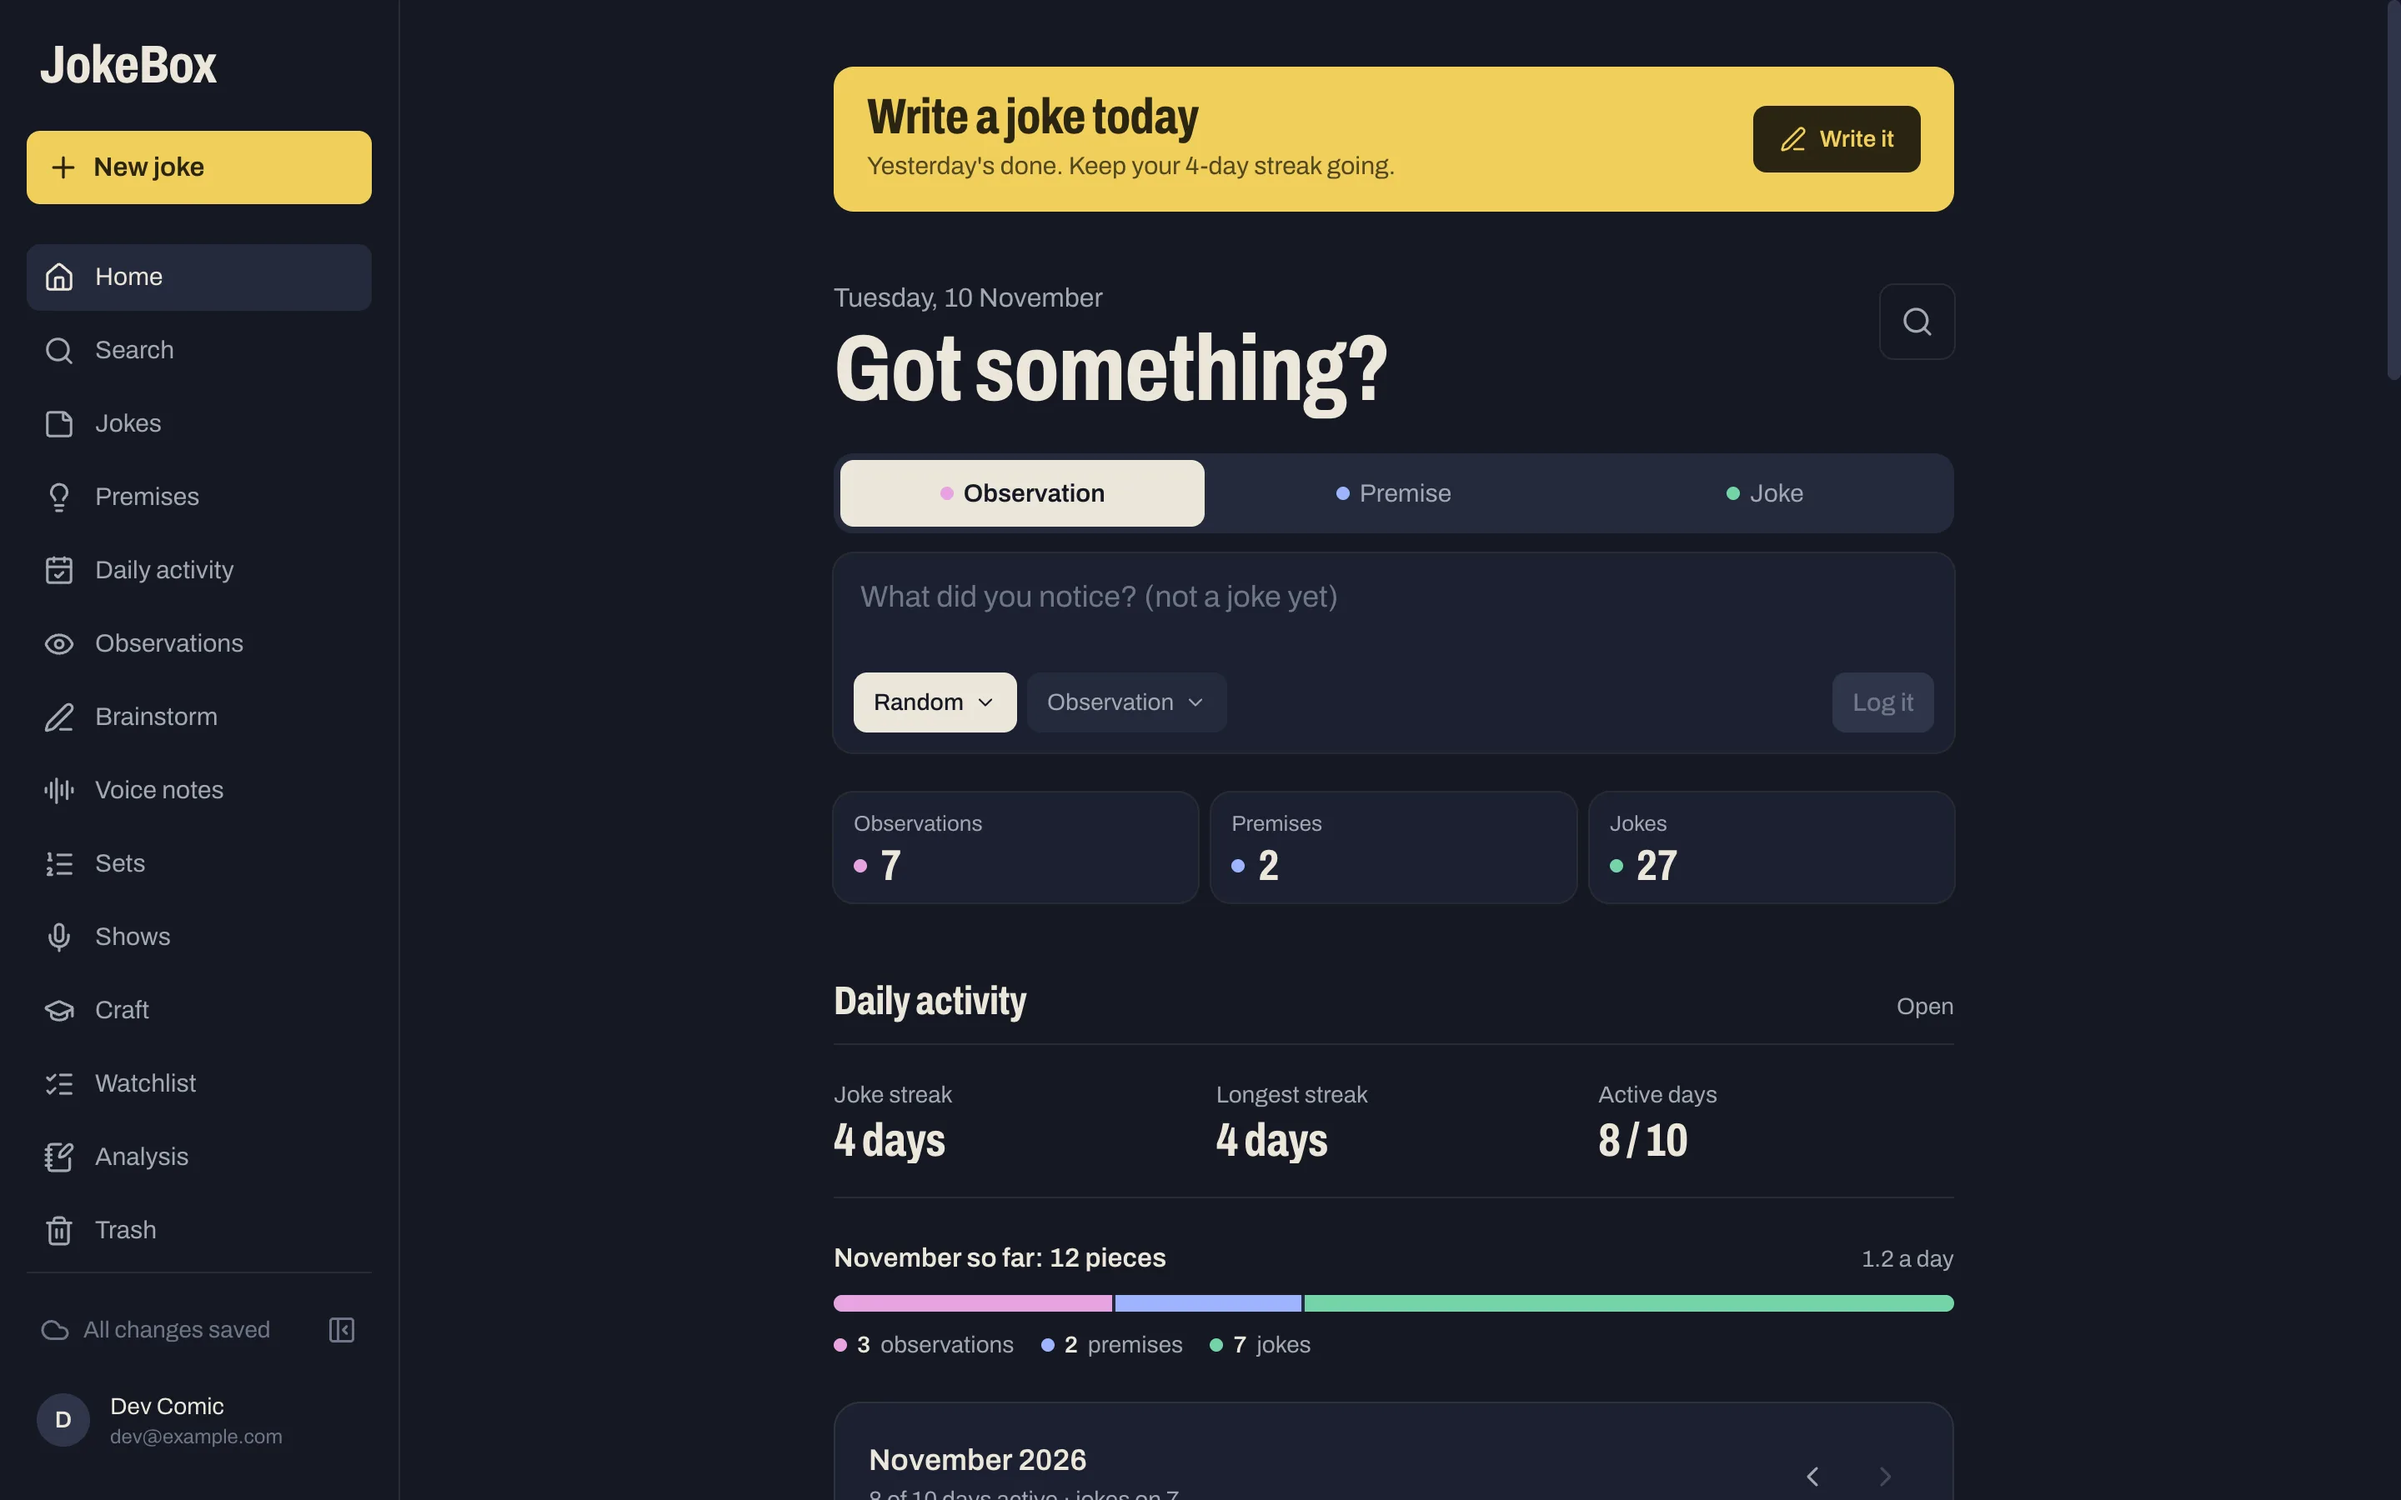
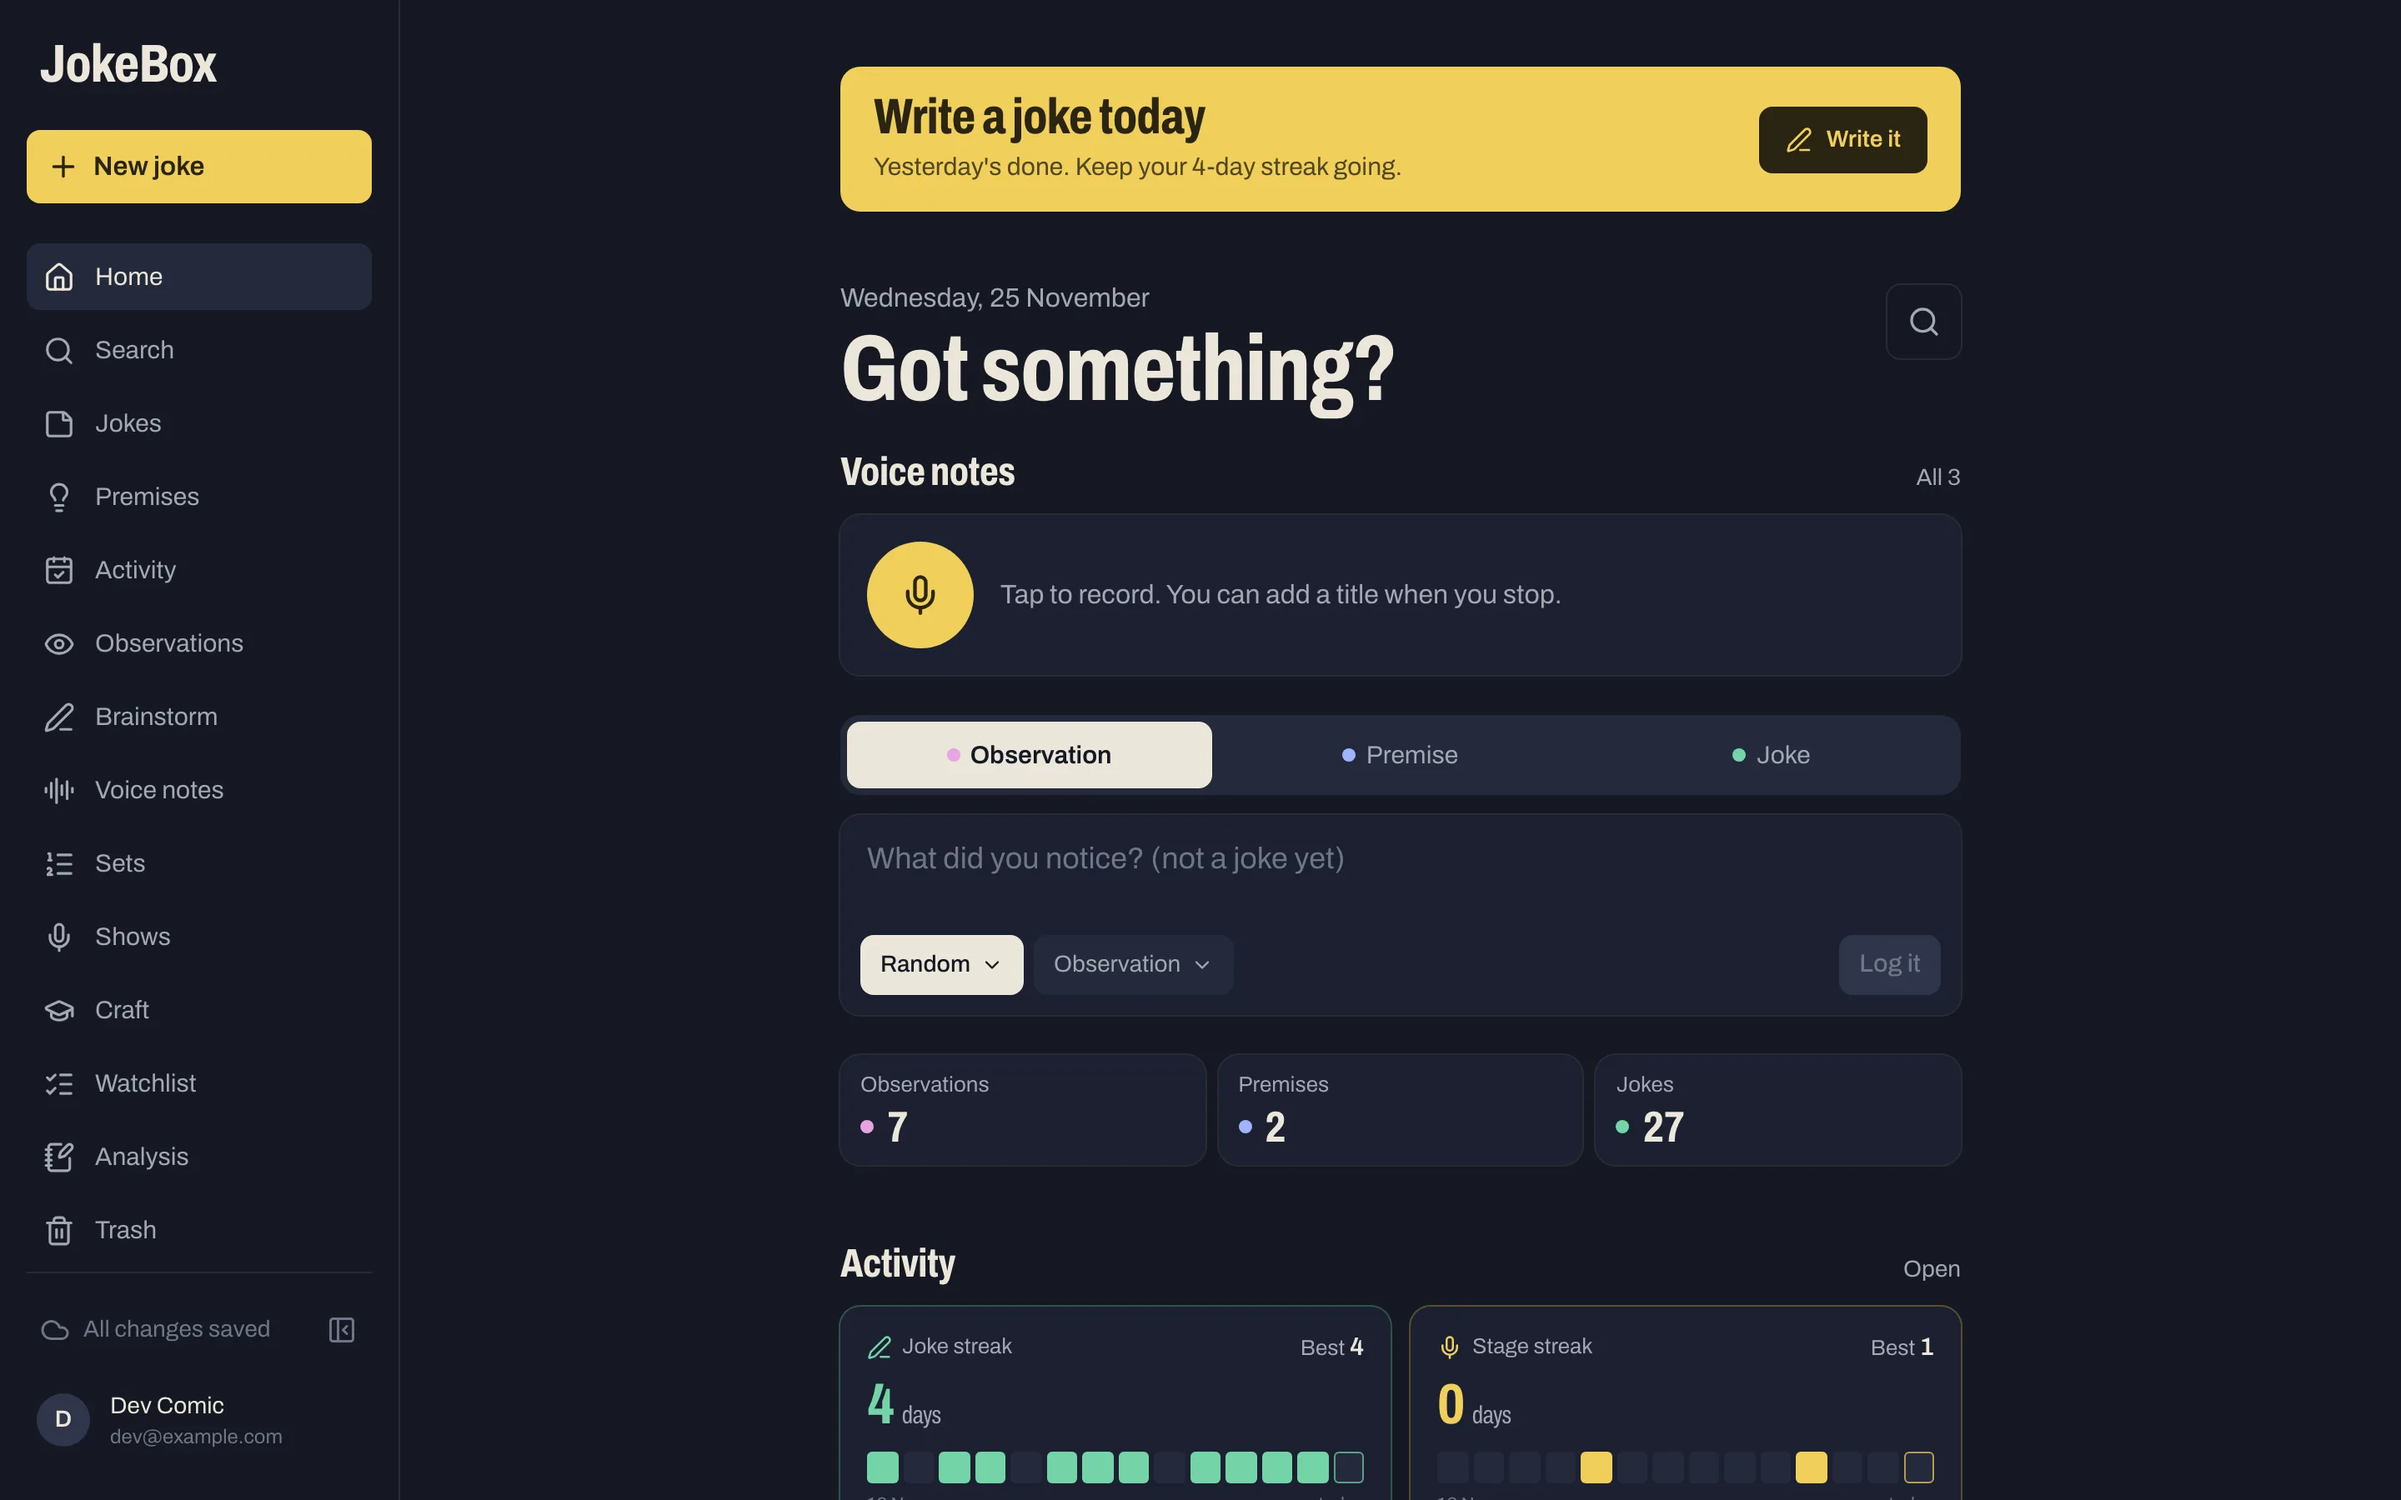
fix(web): move the Home recorder above the writing tabs (#183)

diff --git a/web/src/features/today/TodayPage.tsx b/web/src/features/today/TodayPage.tsx
@@ -1,4 +1,4 @@
-/** Today: the daily joke nudge, then a box to write an observation, premise or joke (three tabs), shortcuts to jokes, premises and observations, daily activity (streaks, the month and its calendar), voice notes, brainstorming, craft (your path and a lesson box), study (watchlist, analysis, links), your topic folders, what's coming up, and how the last show went. */
+/** Home brings voice and written capture together above the library and activity. */
 import { Play, Search } from 'lucide-react'
 import { useState } from 'react'
 import { Link } from 'react-router'
@@ -54,10 +54,10 @@ export function TodayPage() {
           <Search size={20} />
         </Link>
       </div>
+      <TodayVoice />
       <CaptureTabs tab={tab} onTab={setTab} />
       <LibraryTiles />
       <TodayActivity />
-      <TodayVoice />
       <TodayBrainstorm />
       <TodayCraft />
       <TodayStudy />

diff --git a/web/src/features/today/TodayVoice.tsx b/web/src/features/today/TodayVoice.tsx
@@ -7,7 +7,7 @@ import { useVoiceLibrary } from '../voice/useVoiceLibrary'
 export function TodayVoice() {
   const { notes } = useVoiceLibrary()
   return (
-    <section className="mt-12">
+    <section className="mb-6">
       <SectionHead title="Voice notes">
         <Link to="/voice" className="text-sm text-dim hover:text-paper">{notes.length ? `All ${notes.length}` : 'Open'}</Link>
       </SectionHead>

diff --git a/docs/screens.md b/docs/screens.md
@@ -89,10 +89,10 @@ in IST and the headline **"Got something?"** with a search button beside it (it 
 | Section | File | Notes |
 |---|---|---|
 | Daily joke nudge | `daily/DailyBanner.tsx` | Days since your last new joke: today written, a small green line with your streak; 1 or 2 days, yellow **Write a joke today**; 3 to 7, red **N days without a joke**; over a week, a dark, spooky card (a drifting ghost, a cobweb, a flickering line; still under reduced motion). Waits for the jokes to load so it never flashes the wrong state. On Home its button opens the Joke tab |
+| Voice notes | `TodayVoice.tsx` | The same recorder as the Voice screen, plus "All N" |
 | Write | `CaptureTabs.tsx` | Three tabs, **Observation** (picked when Home opens), **Premise** and **Joke**, each with its own box; drafts survive switching. Observation: `ObservationBox` (text, Topic, Kind, **Log it**). Premise: `premises/PremiseBox.tsx` (the take, "Because…", Topic, **Add premise**; the toast's **Open** goes to it). Joke: `QuickCapture.tsx` (setup and punchline; Enter saves to Random). The nudge's **Write it** switches to Joke and puts the cursor in the setup |
 | Your material | `LibraryTiles.tsx` | Three tiles, **Observations**, **Premises** and **Jokes** (the tabs' order), each with its count and its Activity colour; a tap opens that list |
 | Activity | `TodayActivity.tsx`, `daily/ActivityPanel.tsx` | The same streak cards, calendar card and Today box as [Activity](#activity-activity), plus **Open**. The pulse, highlights and year review are on Activity only |
-| Voice notes | `TodayVoice.tsx` | The same recorder as the Voice screen, plus "All N" |
 | Brainstorm | `TodayBrainstorm.tsx` | Start a session, or pick up the last one |
 | Craft | `TodayCraft.tsx`, `craft/PathLadder.tsx` | **Path:** a small copy of the Craft staircase: the first Path note with tick boxes still open, how many are done, and the next step (one small staircase per heading when the note has tracks). When the step names minutes, it shows your most solid material on one topic (Strong and Killer jokes, by runtime) against that target. Below it, a box to save a lesson to one of your areas (chips in their colours) |
 | Study | `TodayStudy.tsx` | Craft notes, watchlist progress, analyses |
